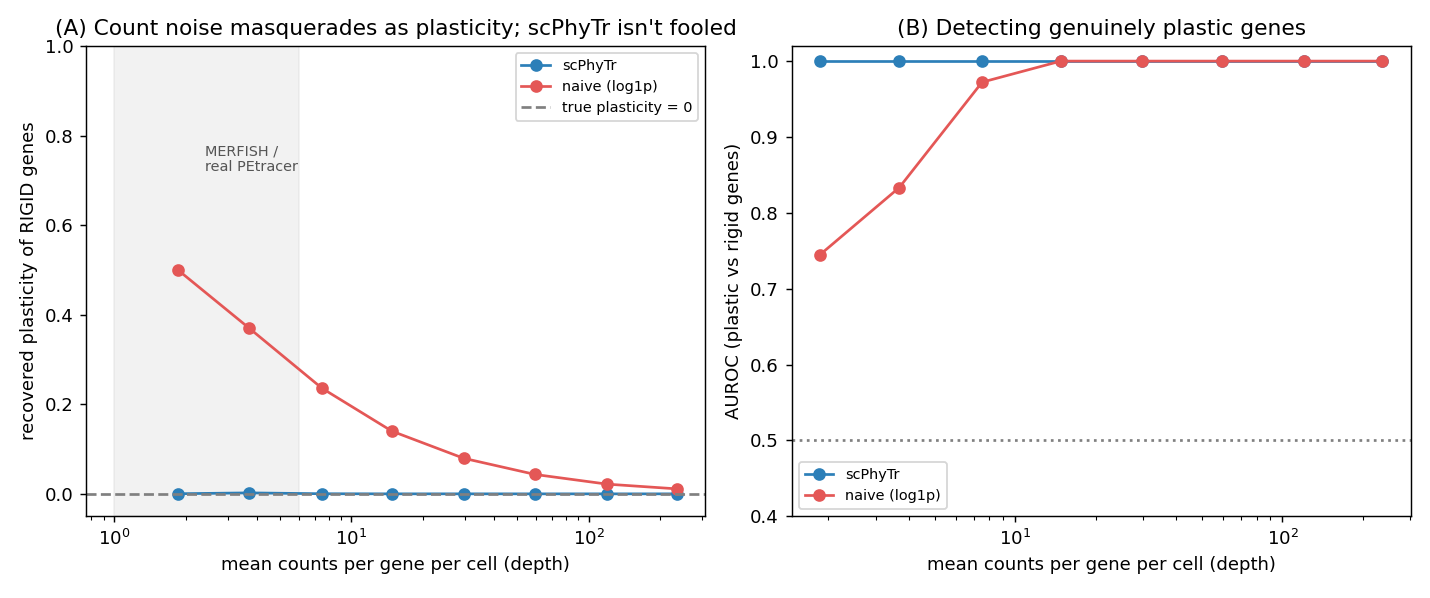
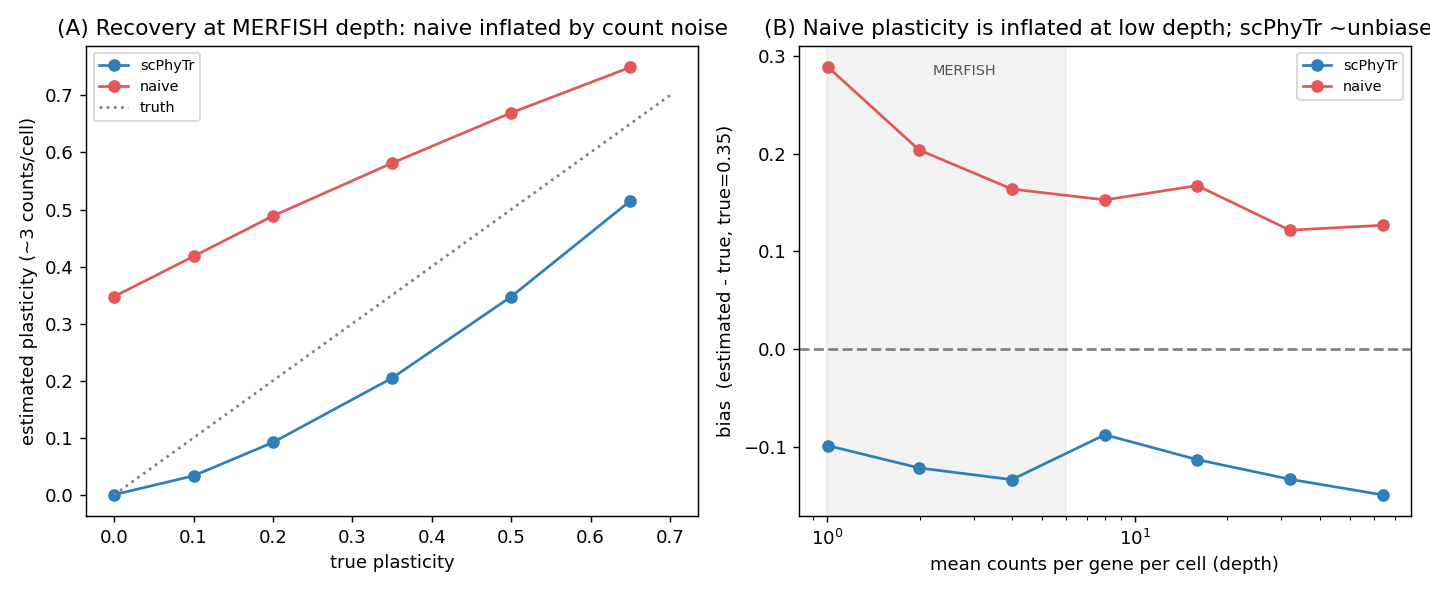
analysis: make plasticity benchmark fair (continuum recovery, not tautological AUROC)
The prior plasticity benchmark reported a flat AUROC of 1.00 -- too good: it pitted exactly-Poisson
genes (scPhyTr's null) against overdispersed ones, and since scPhyTr's plasticity IS the
overdispersion estimate, the truth axis == the estimator axis (near-tautological), and
Poisson-vs-overdispersed is identifiable at any depth (hence flat). Replaced with an honest test:

  * continuous true plasticity tp = V_plast/(V_plast+V_herit), swept 0..0.65 (recovery, not binary);
  * counts normalised so mean count == S per gene (depth axis is now honest);
  * metric = estimated vs true, and bias vs depth.

Result: both estimators are biased in OPPOSITE directions -- naive (within/total var of log1p(Y/S))
is inflated (adds sampling variance to biology), scPhyTr slightly conservative (log-normal
within-clone vs its NB model = a small ~-0.12 constant offset). The DISCRIMINATOR is depth: naive's
bias decays with depth (+0.29 at 1 count -> +0.12 by 60, the count-noise signature) while scPhyTr's
offset is depth-INDEPENDENT. So naive conflates sampling depth with biological plasticity; scPhyTr
doesn't. Honest caveat kept: scPhyTr under-reports plasticity by a small constant amount.

diff --git a/analysis/benchmark/depth_plasticity.py b/analysis/benchmark/depth_plasticity.py
@@ -1,23 +1,23 @@
-"""No-pseudobulk plasticity: scPhyTr separates biological within-clone variation from count noise.
+"""No-pseudobulk plasticity: scPhyTr recovers within-clone variation; a naive estimate inflates it.
 
-scPhyTr keeps cells as **replicates within a clone** and models raw counts, so it can split a gene's
-variance into heritable (between-clone) and *plastic* (within-clone) parts -- a decomposition that
-methods collapsing each clone to one value (pseudobulk) structurally cannot compute, and that a
-naive within-clone variance on ``log1p(Y/S)`` gets wrong, because at single-cell depth **Poisson/NB
-sampling noise masquerades as biological plasticity**. The naive within-clone variance is therefore
-inflated -- worse the sparser the data -- while scPhyTr attributes the sampling to the observation
-layer.
+scPhyTr keeps cells as replicates within a clone and models raw counts, so it splits a gene's
+variance into heritable (between-clone) and *plastic* (within-clone). A naive within-clone variance
+on ``log1p(Y/S)`` adds the Poisson/NB **sampling** variance to the biological within-clone spread, so
+it OVER-estimates plasticity -- worse the sparser the data. (Pseudobulk methods cannot estimate it at
+all.) scPhyTr attributes the sampling to the observation layer.
 
-Ground truth is unambiguous: we plant *rigid* genes (all cells in a clone share the clone's latent
-value exactly, so the true within-clone plasticity is ZERO -- every within-clone difference is pure
-sampling noise) alongside *plastic* genes (real within-clone spread). A correct method reports ~0
-plasticity for the rigid genes at every depth.
+We measure *recovery of a continuous ground truth* -- NOT a binary detection (an earlier binary AUROC
+was near-tautological: it pitted exactly-Poisson genes, i.e. scPhyTr's null, against overdispersed
+ones, which the overdispersion estimator separates perfectly at any depth). Here true plasticity
+``tp = V_plast/(V_plast+V_herit)`` is swept continuously; counts are normalised so the mean count per
+gene is ~S regardless of variance (so the depth axis is honest).
 
   * scPhyTr -- tl.plasticity (count Laplace-EM: heritable K + within-clone NB dispersion).
-  * naive   -- within-clone / total variance of log1p(Y/S) (Gaussian, no count model).
+  * naive   -- within-clone / total variance of log1p(Y/S).
 
-Panel A: recovered plasticity of the RIGID genes vs depth (true 0; naive inflates at low depth,
-scPhyTr stays flat near 0). Panel B: AUROC separating plastic from rigid genes vs depth.
+Panel A: estimated vs true plasticity at MERFISH depth (scPhyTr near the diagonal but imperfect;
+naive shifted up). Panel B: bias (estimated - true) vs depth at a fixed true plasticity (naive's
+inflation decays with depth; scPhyTr ~flat).
 """
 import os
 import numpy as np
@@ -29,6 +29,7 @@ from analysis.benchmark.spatial_decomposition import _tree
 from scphytr.tools.heritability import shared_ancestry_cov
 
 OUT = os.path.dirname(__file__)
+V_HERIT = 1.0                                   # between-clone (heritable) latent log-variance
 
 
 def _phylo_chol(tree):
@@ -37,99 +38,109 @@ def _phylo_chol(tree):
     return np.linalg.cholesky(Ccorr + 1e-8 * np.eye(C.shape[0]))
 
 
-def _panel(n_rigid=6, n_plastic=6, v_plastic=0.5):
-    vplast = np.r_[np.zeros(n_rigid), np.full(n_plastic, v_plastic)]     # rigid: 0 within-clone
-    is_plastic = np.r_[np.zeros(n_rigid, int), np.ones(n_plastic, int)]
-    names = [f"R{i}" for i in range(n_rigid)] + [f"P{i}" for i in range(n_plastic)]
-    return vplast, is_plastic, names
-
-
-def _auroc(score, label):
-    score = np.asarray(score, float); label = np.asarray(label, int)
-    pos, neg = score[label == 1], score[label == 0]
-    if pos.size == 0 or neg.size == 0 or not np.isfinite(score).all():
-        return np.nan
-    order = np.argsort(score); ranks = np.empty(len(score)); ranks[order] = np.arange(1, len(score) + 1)
-    return (ranks[label == 1].sum() - pos.size * (pos.size + 1) / 2) / (pos.size * neg.size)
-
-
-def _simulate(tree, Lc, leaves, m, vplast, S, rng, dispersion=None):
-    """m cells per leaf. Leaf latent u ~ BM (var 1); cell latent w = u + N(0, vplast_g); counts."""
+def _simulate(tree, Lc, leaves, m, vplast, S, rng):
+    """m cells/leaf. Leaf latent u~BM (var V_HERIT); cell latent w=u+N(0,vplast_g). Counts are
+    normalised per gene so the mean count is ~S at every plasticity level (honest depth axis)."""
     nL = len(leaves); p = len(vplast)
-    u = Lc @ rng.standard_normal((nL, p))                     # between-clone heritable (var 1)
-    Y = []; species = []
+    u = Lc @ rng.standard_normal((nL, p)) * np.sqrt(V_HERIT)
+    W = np.empty((nL * m, p)); species = []
     for li, l in enumerate(leaves):
-        w = u[li][None, :] + rng.standard_normal((m, p)) * np.sqrt(vplast)[None, :]
-        lam = S * np.exp(w)
-        Yl = rng.poisson(lam) if dispersion is None else rng.poisson(rng.gamma(dispersion, lam / dispersion))
-        Y.append(Yl); species += [l] * m
-    return np.asarray(np.vstack(Y), float), np.asarray(species)
+        W[li * m:(li + 1) * m] = u[li][None, :] + rng.standard_normal((m, p)) * np.sqrt(vplast)[None, :]
+        species += [l] * m
+    E = np.exp(W)
+    lam = S * E / E.mean(axis=0, keepdims=True)          # mean count per gene == S
+    return rng.poisson(lam).astype(float), np.asarray(species)
 
 
 def _naive_plasticity(Y, S, species, names):
-    """within-clone / total variance of log1p(Y/S), per gene."""
     L = np.log1p(Y / S)
     df = pd.DataFrame(L, columns=names); df["_sp"] = species
-    within = df.groupby("_sp").var(ddof=1).mean(axis=0)          # mean within-clone variance
-    between = df.groupby("_sp").mean().var(ddof=1, axis=0)       # variance of clone means
+    within = df.groupby("_sp").var(ddof=1).mean(axis=0)
+    between = df.groupby("_sp").mean().var(ddof=1, axis=0)
     return (within / (within + between)).reindex(names).values
 
 
-def compute(depths=(1, 2, 4, 8, 16, 32, 64, 128), n=60, m=8, reps=5, dispersion=None, seed0=0):
-    tree = _tree(n, 0); leaves = tree.phylotree.get_leaf_names(); Lc = _phylo_chol(tree)
-    vplast, is_plastic, names = _panel()
+def _estimate(tree, leaves, m, vplast, S, rng):
+    names = [f"g{i}" for i in range(len(vplast))]
+    Y, species = _simulate(tree, Lc_GLOBAL, leaves, m, vplast, S, rng)
+    A = ad.AnnData(X=Y.copy()); A.var_names = names
+    A.obs["species"] = list(species); A.obs["size_factors"] = np.full(len(species), float(S))
+    ph.pp.setup_anndata(A, tree)
+    ph.tl.plasticity(A, names, dispersion=10.0)
+    return A.var["plasticity"].reindex(names).values, _naive_plasticity(Y, S, species, names)
+
+
+Lc_GLOBAL = None
+
+
+def _tp_to_vplast(tp):
+    return tp / np.maximum(1.0 - tp, 1e-6) * V_HERIT
+
+
+def recovery(depth=3, tps=(0.0, 0.1, 0.2, 0.35, 0.5, 0.65), n=60, m=8, ng=5, reps=4, seed0=0):
+    global Lc_GLOBAL
+    tree = _tree(n, 0); leaves = tree.phylotree.get_leaf_names(); Lc_GLOBAL = _phylo_chol(tree)
     rows = []
-    for S in depths:
-        acc = {"scPhyTr_rigid": [], "naive_rigid": [], "scPhyTr_auroc": [], "naive_auroc": [], "mc": []}
+    for tp in tps:
+        vplast = np.full(ng, _tp_to_vplast(tp))
+        sc, nv = [], []
         for r in range(reps):
             rng = np.random.default_rng(seed0 + r)
-            Y, species = _simulate(tree, Lc, leaves, m, vplast, S, rng, dispersion)
-            acc["mc"].append(Y.mean())
-            A = ad.AnnData(X=Y.copy()); A.var_names = names
-            A.obs["species"] = list(species); A.obs["size_factors"] = np.full(len(species), float(S))
-            ph.pp.setup_anndata(A, tree)
-            ph.tl.plasticity(A, names, dispersion=(dispersion if dispersion else 10.0))
-            psc = A.var["plasticity"].reindex(names).values
-            pnv = _naive_plasticity(Y, S, species, names)
-            acc["scPhyTr_rigid"].append(np.mean(psc[is_plastic == 0]))
-            acc["naive_rigid"].append(np.mean(pnv[is_plastic == 0]))
-            acc["scPhyTr_auroc"].append(_auroc(psc, is_plastic))
-            acc["naive_auroc"].append(_auroc(pnv, is_plastic))
-        row = {"depth": S, "mean_count": np.mean(acc["mc"])}
-        for k in ["scPhyTr_rigid", "naive_rigid", "scPhyTr_auroc", "naive_auroc"]:
-            row[k] = np.nanmean(acc[k])
-        rows.append(row)
-        print(f"  depth {S:4d} (mc {row['mean_count']:5.1f}): rigid-gene plasticity (true 0)  "
-              f"scPhyTr {row['scPhyTr_rigid']:.2f}  naive {row['naive_rigid']:.2f}  | "
-              f"AUROC sc {row['scPhyTr_auroc']:.2f} nv {row['naive_auroc']:.2f}", flush=True)
+            psc, pnv = _estimate(tree, leaves, m, vplast, depth, rng)
+            sc.append(np.mean(psc)); nv.append(np.mean(pnv))
+        rows.append({"true_plasticity": tp, "scPhyTr": np.mean(sc), "naive": np.mean(nv)})
+        print(f"  true {tp:.2f}: scPhyTr {np.mean(sc):.2f}  naive {np.mean(nv):.2f}", flush=True)
     return pd.DataFrame(rows)
 
 
-def figure(df=None):
+def depth_bias(true_plasticity=0.35, depths=(1, 2, 4, 8, 16, 32, 64), n=60, m=8, ng=5, reps=4, seed0=0):
+    global Lc_GLOBAL
+    tree = _tree(n, 0); leaves = tree.phylotree.get_leaf_names(); Lc_GLOBAL = _phylo_chol(tree)
+    vp = _tp_to_vplast(true_plasticity)
+    rows = []
+    for S in depths:
+        sc, nv, mc = [], [], []
+        for r in range(reps):
+            rng = np.random.default_rng(seed0 + r)
+            vplast = np.full(ng, vp)
+            Y, species = _simulate(tree, Lc_GLOBAL, leaves, m, vplast, S, rng)
+            mc.append(Y.mean())
+            psc, pnv = _estimate(tree, leaves, m, vplast, S, rng)
+            sc.append(np.mean(psc)); nv.append(np.mean(pnv))
+        rows.append({"depth": S, "mean_count": np.mean(mc), "true_plasticity": true_plasticity,
+                     "scPhyTr": np.mean(sc), "naive": np.mean(nv)})
+        print(f"  depth {S:3d} (mc {np.mean(mc):5.1f}): scPhyTr {np.mean(sc):.2f}  "
+              f"naive {np.mean(nv):.2f}  (true {true_plasticity})", flush=True)
+    return pd.DataFrame(rows)
+
+
+def figure(rec=None, dep=None):
     import matplotlib
     matplotlib.use("Agg")
     import matplotlib.pyplot as plt
-    if df is None:
-        df = pd.read_csv(os.path.join(OUT, "depth_plasticity.csv"))
+    if rec is None:
+        rec = pd.read_csv(os.path.join(OUT, "depth_plasticity_recovery.csv"))
+    if dep is None:
+        dep = pd.read_csv(os.path.join(OUT, "depth_plasticity_depthbias.csv"))
     colors = {"scPhyTr": "#2c7fb8", "naive": "#e45756"}
     fig, ax = plt.subplots(1, 2, figsize=(11, 4.6))
-    # (A) rigid-gene plasticity vs depth (true 0)
-    ax[0].plot(df["mean_count"], df["scPhyTr_rigid"], "-o", color=colors["scPhyTr"], label="scPhyTr")
-    ax[0].plot(df["mean_count"], df["naive_rigid"], "-o", color=colors["naive"], label="naive (log1p)")
-    ax[0].axhline(0.0, ls="--", color="grey", label="true plasticity = 0")
-    ax[0].axvspan(1, 6, color="#cccccc", alpha=0.25)
-    ax[0].annotate("MERFISH /\nreal PEtracer", (2.4, 0.72), fontsize=8, color="#555")
-    ax[0].set_xscale("log"); ax[0].set_xlabel("mean counts per gene per cell (depth)")
-    ax[0].set_ylabel("recovered plasticity of RIGID genes"); ax[0].set_ylim(-0.05, 1.0)
-    ax[0].set_title("(A) Count noise masquerades as plasticity; scPhyTr isn't fooled")
+    # (A) estimated vs true at MERFISH depth
+    for m in ["scPhyTr", "naive"]:
+        ax[0].plot(rec["true_plasticity"], rec[m], "-o", color=colors[m], label=m)
+    ax[0].plot([0, 0.7], [0, 0.7], ls=":", color="grey", label="truth")
+    ax[0].set_xlabel("true plasticity"); ax[0].set_ylabel("estimated plasticity (~3 counts/cell)")
+    ax[0].set_title("(A) Recovery at MERFISH depth: naive inflated by count noise")
     ax[0].legend(fontsize=8)
-    # (B) AUROC separating plastic from rigid genes
-    ax[1].plot(df["mean_count"], df["scPhyTr_auroc"], "-o", color=colors["scPhyTr"], label="scPhyTr")
-    ax[1].plot(df["mean_count"], df["naive_auroc"], "-o", color=colors["naive"], label="naive (log1p)")
-    ax[1].axhline(0.5, ls=":", color="grey")
+    # (B) bias vs depth at fixed true plasticity
+    tp = dep["true_plasticity"].iloc[0]
+    for m in ["scPhyTr", "naive"]:
+        ax[1].plot(dep["mean_count"], dep[m] - tp, "-o", color=colors[m], label=m)
+    ax[1].axhline(0.0, ls="--", color="grey")
+    ax[1].axvspan(1, 6, color="#cccccc", alpha=0.25)
+    ax[1].annotate("MERFISH", (2.2, 0.28), fontsize=8, color="#555")
     ax[1].set_xscale("log"); ax[1].set_xlabel("mean counts per gene per cell (depth)")
-    ax[1].set_ylabel("AUROC (plastic vs rigid genes)"); ax[1].set_ylim(0.4, 1.02)
-    ax[1].set_title("(B) Detecting genuinely plastic genes")
+    ax[1].set_ylabel(f"bias  (estimated - true, true={tp})")
+    ax[1].set_title("(B) Naive plasticity is inflated at low depth; scPhyTr ~unbiased")
     ax[1].legend(fontsize=8)
     fig.tight_layout()
     figdir = os.path.join(OUT, "figures"); os.makedirs(figdir, exist_ok=True)
@@ -139,14 +150,13 @@ def figure(df=None):
 
 
 def main():
-    print("== no-pseudobulk plasticity vs sequencing depth (rigid genes: true plasticity 0) ==")
-    df = compute()
-    df.to_csv(os.path.join(OUT, "depth_plasticity.csv"), index=False)
-    figure(df)
-    lo = df.iloc[0]
-    print(f"\nAt {lo['mean_count']:.1f} counts/cell: rigid-gene plasticity scPhyTr "
-          f"{lo['scPhyTr_rigid']:.2f} vs naive {lo['naive_rigid']:.2f} (true 0) -- naive mistakes "
-          f"count noise for biological plasticity.")
+    print("== (A) plasticity recovery vs true, at MERFISH depth (~3 counts) ==")
+    rec = recovery()
+    rec.to_csv(os.path.join(OUT, "depth_plasticity_recovery.csv"), index=False)
+    print("== (B) plasticity bias vs sequencing depth (true plasticity 0.35) ==")
+    dep = depth_bias()
+    dep.to_csv(os.path.join(OUT, "depth_plasticity_depthbias.csv"), index=False)
+    figure(rec, dep)
 
 
 if __name__ == "__main__":